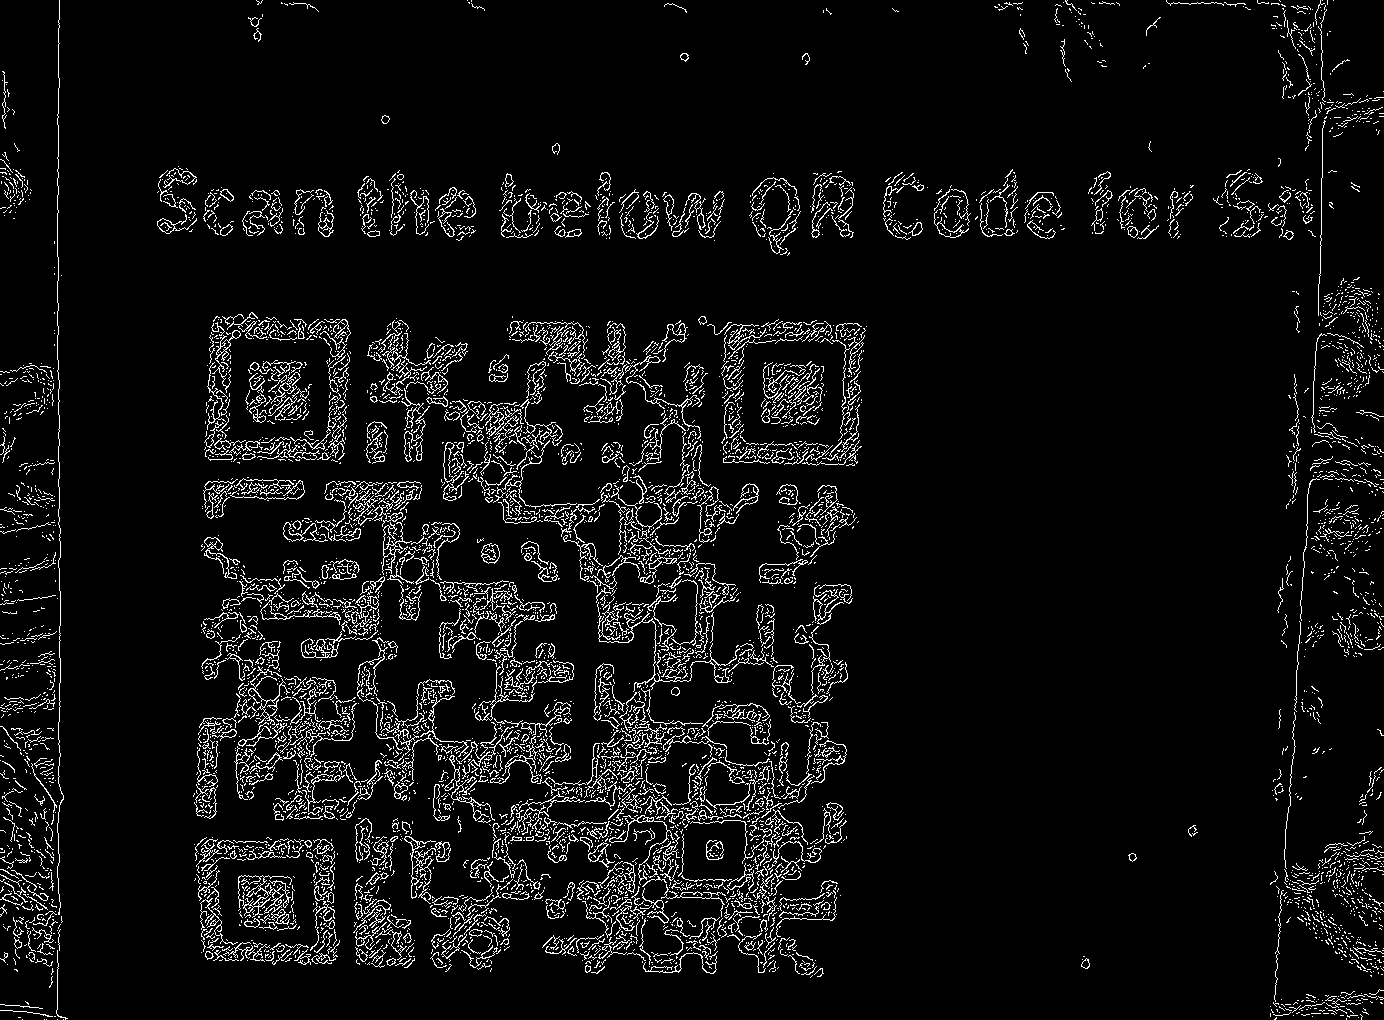
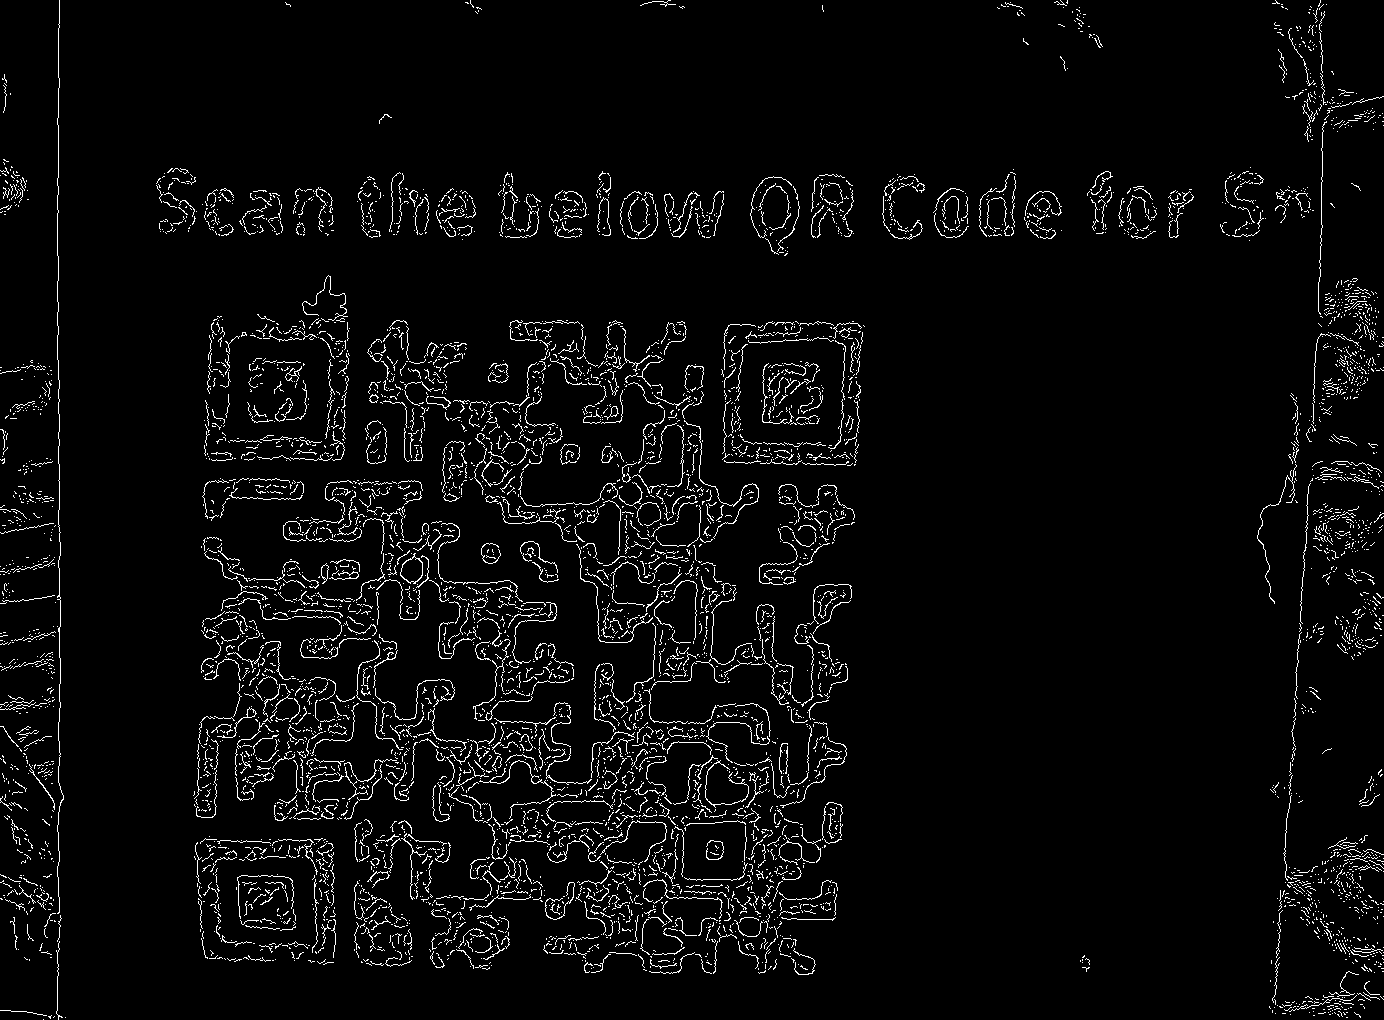
dual pass kinda gives continuous edges, still not good

diff --git a/main.py b/main.py
@@ -6,6 +6,8 @@ image = cv2.imread('qr.png', cv2.IMREAD_GRAYSCALE)
 threshold1 = int(sys.argv[1]) if len(sys.argv) > 1 else 50
 threshold2 = int(sys.argv[2]) if len(sys.argv) > 2 else 100
 blur = cv2.bilateralFilter(image,9,75,75)
+blur = cv2.bilateralFilter(blur,9,75,75)
+
 # image_gray = cv2.cvtColor(image,cv2.COLOR_BGR2GRAY)
 # th, im_th_gray = cv2.threshold(image,170,255,cv2.THRESH_BINARY)
 # print(th)
